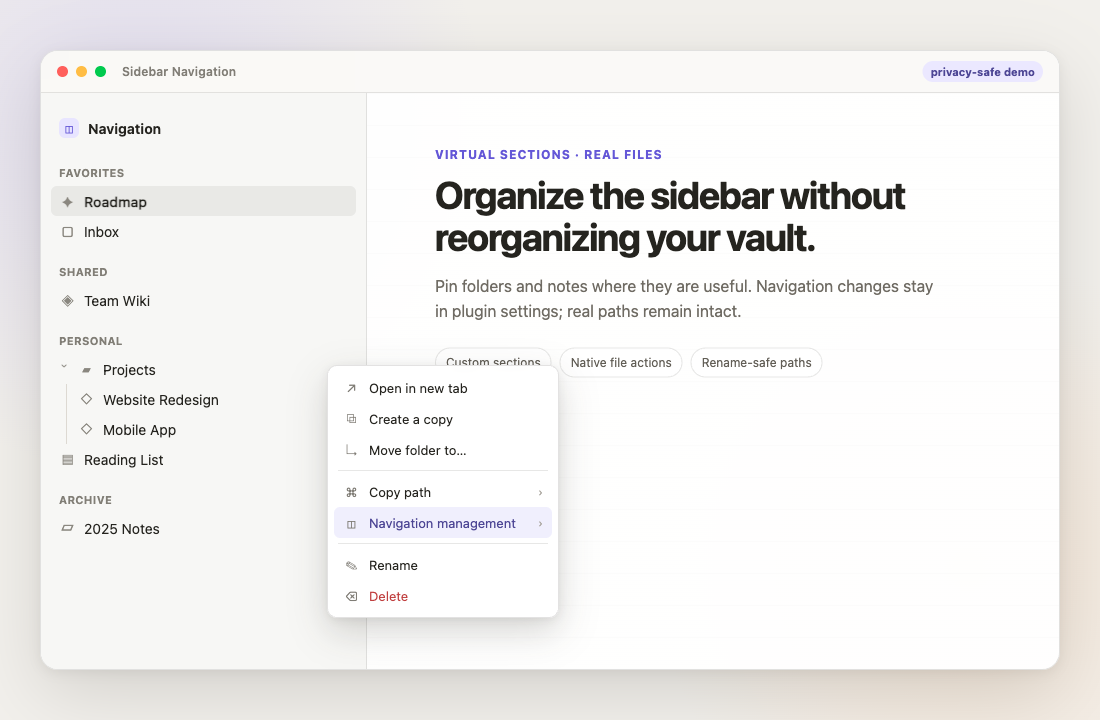
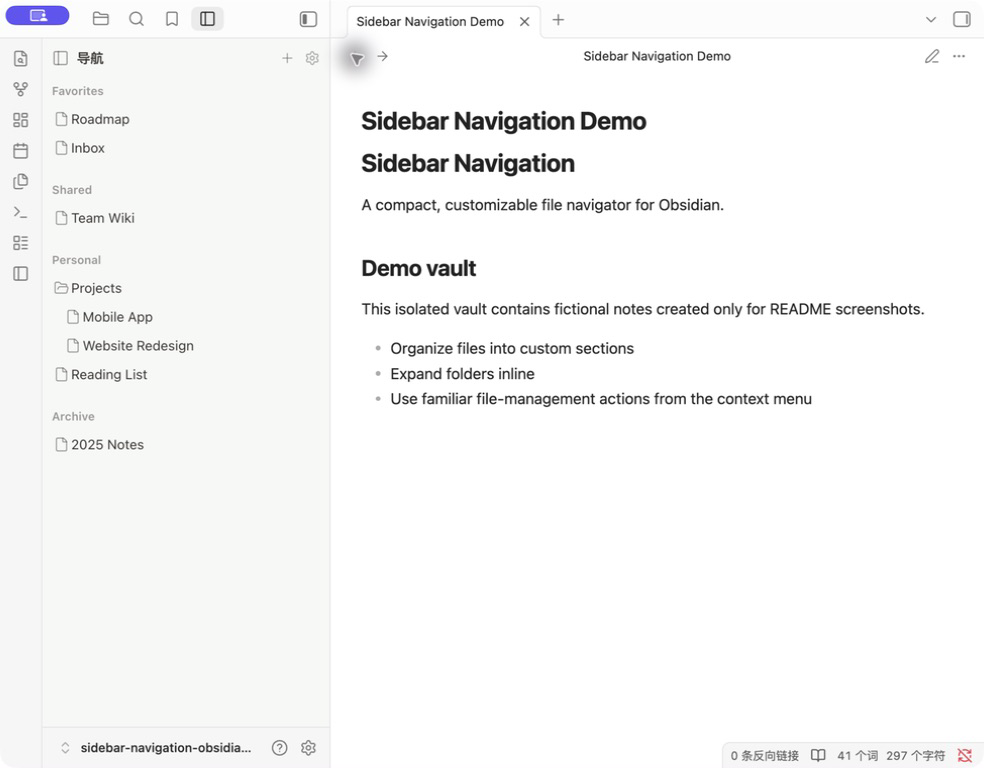
Replace mock visuals with Obsidian captures

diff --git a/README.md b/README.md
@@ -6,9 +6,9 @@ A customizable Obsidian sidebar that organizes real vault files and folders unde
 
 ## Interaction demo
 
-![Expand a folder and open its file-management menu](assets/sidebar-navigation-demo.gif)
+![Expand a folder in Sidebar Navigation](assets/sidebar-navigation-demo.gif)
 
-The screenshots use fictional sections, folders, and notes; they do not contain data from a real vault.
+Captured from the real Obsidian interface in an isolated demo vault containing only fictional sections, folders, and notes. No personal vault content is shown.
 
 ## Features
 
